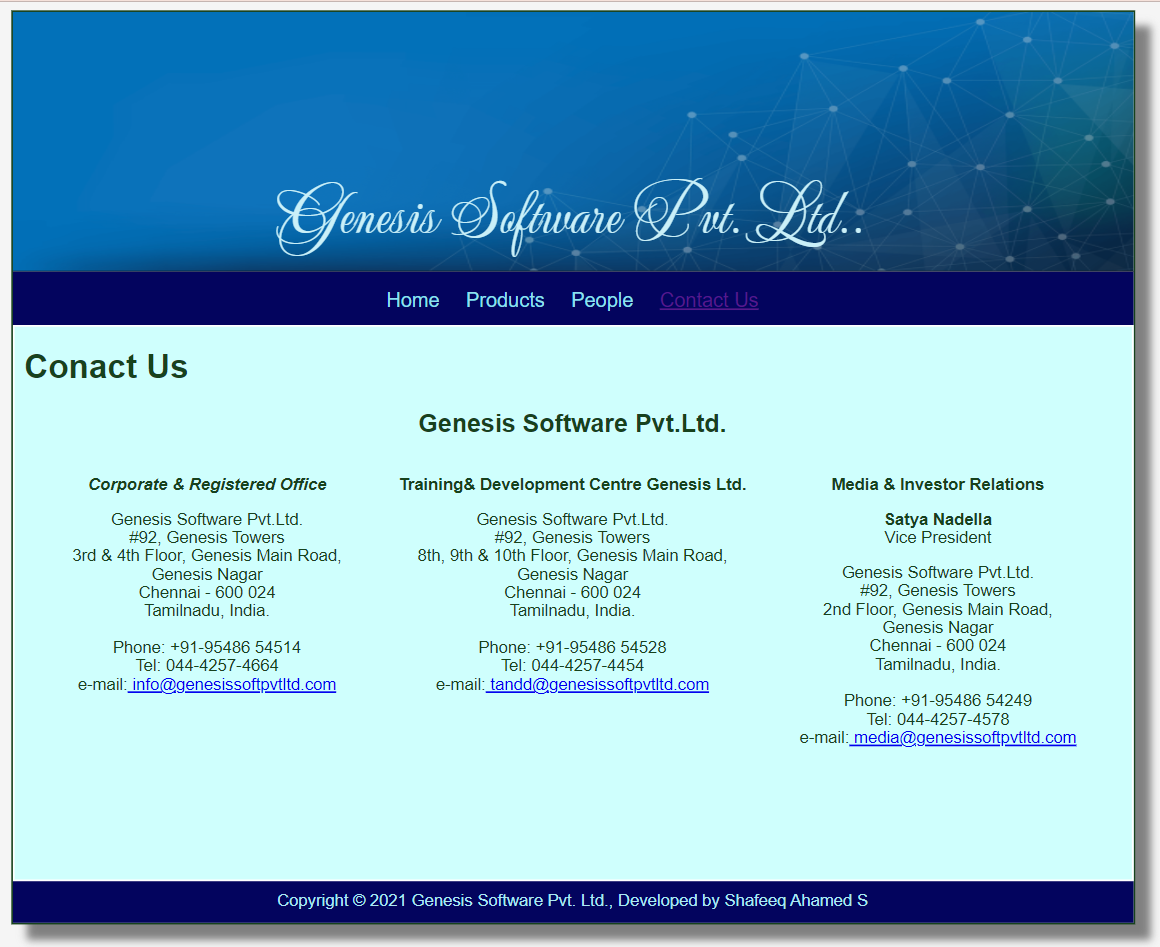
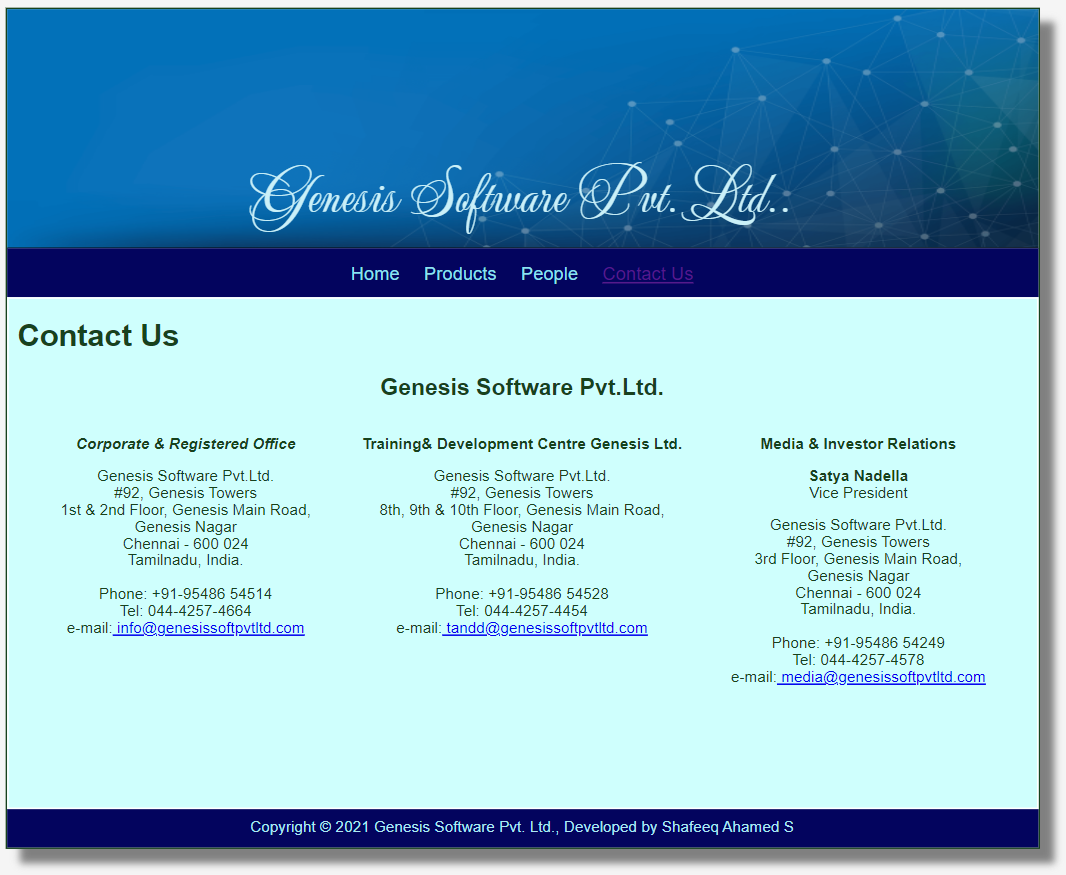
corrected errors

diff --git a/companywebsite/static/contactus.html b/companywebsite/static/contactus.html
@@ -17,27 +17,24 @@
       </div>
       <div class="content">
         <div class="productcontent">    
-          <h1>Conact Us</h1>
+          <h1>Contact Us</h1>
           <h2>Genesis Software Pvt.Ltd.</h2>
           <table width="100%" border="0" cellspacing="0" cellpadding="0">
             <tr>
               <td width="33%" valign="top">
-                          <p>
-                            <i>
-                              <strong>Corporate & Registered Office</strong></i></p>
-                              <p>Genesis Software Pvt.Ltd.<br />
-                               #92, Genesis Towers<br />
-                               3rd & 4th Floor, Genesis Main Road,  <br/>
-                               Genesis Nagar</br>
-                               Chennai - 600 024<br />
-                               Tamilnadu, India.<br /><br />
-                               Phone: +91-95486 54514<br />
-                               Tel: 044-4257-4664<br />
-                               e-mail:<a target='_blank' href='mailto:info@genesissoftpvtltd.com?Subject=Enquiry for Genesis Software Pvt.Ltd.'> info@genesissoftpvtltd.com</a><br />
-                              </p><br />
+                    <p><i><strong>Corporate & Registered Office</strong></i></p>
+                    <p>Genesis Software Pvt.Ltd.<br />
+                    #92, Genesis Towers<br />
+                    1st & 2nd Floor, Genesis Main Road,  <br/>
+                    Genesis Nagar</br>
+                    Chennai - 600 024<br />
+                    Tamilnadu, India.<br /><br />
+                    Phone: +91-95486 54514<br />
+                    Tel: 044-4257-4664<br />
+                    e-mail:<a target='_blank' href='mailto:info@genesissoftpvtltd.com?Subject=Enquiry for Genesis Software Pvt.Ltd.'> info@genesissoftpvtltd.com</a><br />
+                    </p><br />
                 </td>
               <td width="33%" valign="top">
-              
                <p><strong>Training& Development Centre Genesis Ltd.</strong><br/> 
                     <p>Genesis Software Pvt.Ltd.<br />
                      #92, Genesis Towers<br />
@@ -49,23 +46,21 @@
                      Tel: 044-4257-4454<br />
                      e-mail:<a target='_blank' href='mailto:training@genesissoftpvtltd.com?Subject=Enquiry for Training & Development @ Genesis Software Pvt.Ltd.'> tandd@genesissoftpvtltd.com</a><br />
                     </p><br />
-      </td>
+                </td>
               <td width="33%" valign="top">
-              
-               <p><strong>Media  & Investor Relations</strong><br/> <p> 
-                                        
-                                         <p><strong>Satya Nadella</strong> <br/>Vice President<p> 
-                                         <p>Genesis Software Pvt.Ltd. <br />
-                                          #92, Genesis Towers<br />
-                                          2nd Floor, Genesis Main Road,  <br/>
-                                          Genesis Nagar</br>
-                                          Chennai - 600 024<br />
-                                          Tamilnadu, India.<br /><br />
-                                          Phone: +91-95486 54249<br />
-                                          Tel: 044-4257-4578<br />
-                                          e-mail:<a target='_blank' href='mailto:media@genesissoftpvtltd.com?Subject=Enquiry for Media and Related @ Genesis Software Pvt.Ltd.'> media@genesissoftpvtltd.com</a><br />
-                                         </p><br />
-                           </td>
+               <p><strong>Media  & Investor Relations</strong><br/> <p>                          
+                      <p><strong>Satya Nadella</strong> <br/>Vice President<p> 
+                      <p>Genesis Software Pvt.Ltd. <br />
+                      #92, Genesis Towers<br />
+                      3rd Floor, Genesis Main Road,  <br/>
+                      Genesis Nagar</br>
+                      Chennai - 600 024<br />
+                      Tamilnadu, India.<br /><br />
+                      Phone: +91-95486 54249<br />
+                      Tel: 044-4257-4578<br />
+                      e-mail:<a target='_blank' href='mailto:media@genesissoftpvtltd.com?Subject=Enquiry for Media and Related @ Genesis Software Pvt.Ltd.'> media@genesissoftpvtltd.com</a><br />
+                      </p><br />
+                </td>
             </tr>
           </table>
         </div>

diff --git a/companywebsite/static/home.html b/companywebsite/static/home.html
@@ -26,9 +26,9 @@
               <table class="td5">
                 <tr>
                   <td class="td4">1000+</br>Happy customers</td>
-                  <td class="td4">40+</br>Experience</td>
+                  <td class="td4">40+</br>Years of Experience</td>
                   <td class="td4">35+</br>Countries</td>
-                  <td class="td4">30</br>GLobal Offices</td>
+                  <td class="td4">30</br>Global Offices</td>
                   <td class="td4">2500+</br>Employees</td>
                 </tr>
               </table>

diff --git a/README.md b/README.md
@@ -65,9 +65,9 @@ Publish the website in the given URL.
               <table class="td5">
                 <tr>
                   <td class="td4">1000+</br>Happy customers</td>
-                  <td class="td4">40+</br>Experience</td>
+                  <td class="td4">40+</br>Years of Experience</td>
                   <td class="td4">35+</br>Countries</td>
-                  <td class="td4">30</br>GLobal Offices</td>
+                  <td class="td4">30</br>Global Offices</td>
                   <td class="td4">2500+</br>Employees</td>
                 </tr>
               </table>
@@ -200,6 +200,7 @@ Publish the website in the given URL.
     </div>
   </body>
 </html>
+
 ```
 ### People Page:
 ```
@@ -382,27 +383,24 @@ Publish the website in the given URL.
       </div>
       <div class="content">
         <div class="productcontent">    
-          <h1>Conact Us</h1>
+          <h1>Contact Us</h1>
           <h2>Genesis Software Pvt.Ltd.</h2>
           <table width="100%" border="0" cellspacing="0" cellpadding="0">
             <tr>
               <td width="33%" valign="top">
-                          <p>
-                            <i>
-                              <strong>Corporate & Registered Office</strong></i></p>
-                              <p>Genesis Software Pvt.Ltd.<br />
-                               #92, Genesis Towers<br />
-                               3rd & 4th Floor, Genesis Main Road,  <br/>
-                               Genesis Nagar</br>
-                               Chennai - 600 024<br />
-                               Tamilnadu, India.<br /><br />
-                               Phone: +91-95486 54514<br />
-                               Tel: 044-4257-4664<br />
-                               e-mail:<a target='_blank' href='mailto:info@genesissoftpvtltd.com?Subject=Enquiry for Genesis Software Pvt.Ltd.'> info@genesissoftpvtltd.com</a><br />
-                              </p><br />
+                    <p><i><strong>Corporate & Registered Office</strong></i></p>
+                    <p>Genesis Software Pvt.Ltd.<br />
+                    #92, Genesis Towers<br />
+                    1st & 2nd Floor, Genesis Main Road,  <br/>
+                    Genesis Nagar</br>
+                    Chennai - 600 024<br />
+                    Tamilnadu, India.<br /><br />
+                    Phone: +91-95486 54514<br />
+                    Tel: 044-4257-4664<br />
+                    e-mail:<a target='_blank' href='mailto:info@genesissoftpvtltd.com?Subject=Enquiry for Genesis Software Pvt.Ltd.'> info@genesissoftpvtltd.com</a><br />
+                    </p><br />
                 </td>
               <td width="33%" valign="top">
-              
                <p><strong>Training& Development Centre Genesis Ltd.</strong><br/> 
                     <p>Genesis Software Pvt.Ltd.<br />
                      #92, Genesis Towers<br />
@@ -414,23 +412,21 @@ Publish the website in the given URL.
                      Tel: 044-4257-4454<br />
                      e-mail:<a target='_blank' href='mailto:training@genesissoftpvtltd.com?Subject=Enquiry for Training & Development @ Genesis Software Pvt.Ltd.'> tandd@genesissoftpvtltd.com</a><br />
                     </p><br />
-      </td>
+                </td>
               <td width="33%" valign="top">
-              
-               <p><strong>Media  & Investor Relations</strong><br/> <p> 
-                                        
-                                         <p><strong>Satya Nadella</strong> <br/>Vice President<p> 
-                                         <p>Genesis Software Pvt.Ltd. <br />
-                                          #92, Genesis Towers<br />
-                                          2nd Floor, Genesis Main Road,  <br/>
-                                          Genesis Nagar</br>
-                                          Chennai - 600 024<br />
-                                          Tamilnadu, India.<br /><br />
-                                          Phone: +91-95486 54249<br />
-                                          Tel: 044-4257-4578<br />
-                                          e-mail:<a target='_blank' href='mailto:media@genesissoftpvtltd.com?Subject=Enquiry for Media and Related @ Genesis Software Pvt.Ltd.'> media@genesissoftpvtltd.com</a><br />
-                                         </p><br />
-                           </td>
+               <p><strong>Media  & Investor Relations</strong><br/> <p>                          
+                      <p><strong>Satya Nadella</strong> <br/>Vice President<p> 
+                      <p>Genesis Software Pvt.Ltd. <br />
+                      #92, Genesis Towers<br />
+                      3rd Floor, Genesis Main Road,  <br/>
+                      Genesis Nagar</br>
+                      Chennai - 600 024<br />
+                      Tamilnadu, India.<br /><br />
+                      Phone: +91-95486 54249<br />
+                      Tel: 044-4257-4578<br />
+                      e-mail:<a target='_blank' href='mailto:media@genesissoftpvtltd.com?Subject=Enquiry for Media and Related @ Genesis Software Pvt.Ltd.'> media@genesissoftpvtltd.com</a><br />
+                      </p><br />
+                </td>
             </tr>
           </table>
         </div>
